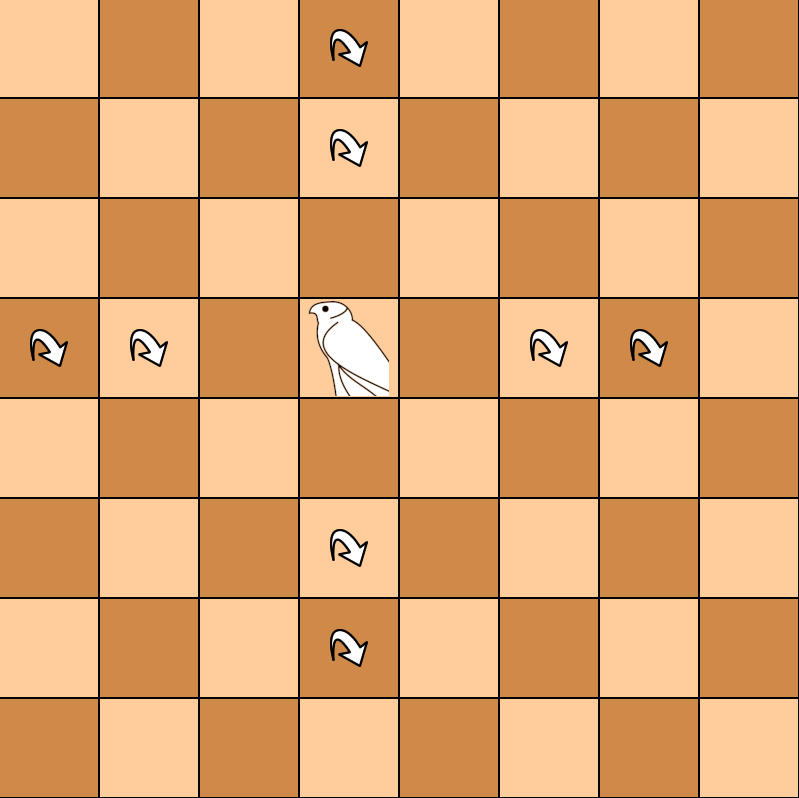
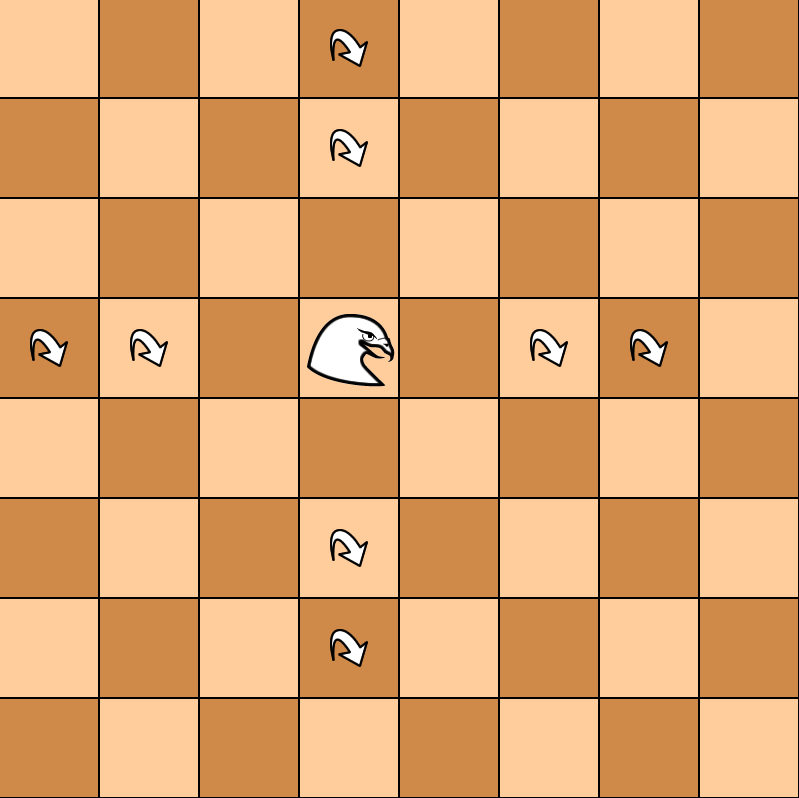
use fr-cobra for snake and aquila 2d for hawk

Changed region(s): [[0.3905, 0.3609, 0.5106, 0.5113]]

diff --git a/src/games/chessbase/res/rules/fantasticXIII/bigorra-rules-fr.html b/src/games/chessbase/res/rules/fantasticXIII/bigorra-rules-fr.html
@@ -42,7 +42,7 @@
 </p>
 <h2>Serpent</h2>
 <p>
-<img class='piece-icon' src='{GAME}/res/fairy/icons/w-dragon.png'>
+<img class='piece-icon' src='{GAME}/res/fairy/icons/w-snake.png'>
 </p>
 <p class='piece-details'>Se déplace d’une case verticalement and peut ensuite glisser diagonalement.</p>
 <div style='clear:both'></div>
@@ -285,4 +285,35 @@
 <p>
 <img class='piece-graph' src='{GAME}/res/rules/graphs/wolf.png'>
 </p>
+<h1>Promotions</h1>
+<div id="promo">
+<table>
+<tr><td><img class='piece-icon-promo' src='{GAME}/res/fairy/icons/w-pawn.png'><img class='piece-icon-promo' src='{GAME}/res/fairy/icons/w-corporal.png'>
+</td><td>promu en
+</td><td><img class='piece-icon-promo' src='{GAME}/res/fairy/icons/w-queen.png'></td></tr>
+<tr><td><img class='piece-icon-promo' src='{GAME}/res/fairy/icons/w-huscarl.png'>
+</td><td>promu en
+</td><td><img class='piece-icon-promo' src='{GAME}/res/fairy/icons/w-wolf.png'></td></tr>
+<tr><td><img class='piece-icon-promo' src='{GAME}/res/fairy/icons/w-prince.png'>
+</td><td>promu en
+</td><td><img class='piece-icon-promo' src='{GAME}/res/fairy/icons/w-amazon.png'></td></tr>
+
+<tr><td><img class='piece-icon-promo' src='{GAME}/res/fairy/icons/w-knight.png'><img class='piece-icon-promo' src='{GAME}/res/fairy/icons/w-camel.png'><img class='piece-icon-promo' src='{GAME}/res/fairy/icons/w-giraffe.png'>
+</td><td>promu en
+</td><td><img class='piece-icon-promo' src='{GAME}/res/fairy/icons/w-buffalo.png'></td></tr>
+
+<tr><td><img class='piece-icon-promo' src='{GAME}/res/fairy/icons/w-crowned-knight.png'><img class='piece-icon-promo' src='{GAME}/res/fairy/icons/w-squirle.png'><img class='piece-icon-promo' src='{GAME}/res/fairy/icons/w-mammoth.png'><img class='piece-icon-promo' src='{GAME}/res/fairy/icons/w-elephant.png'><img class='piece-icon-promo' src='{GAME}/res/fairy/icons/w-machine.png'>
+</td><td>promu en
+</td><td><img class='piece-icon-promo' src='{GAME}/res/fairy/icons/w-lion.png'>
+</td></tr>
+<tr><td><img class='piece-icon-promo' src='{GAME}/res/fairy/icons/w-hawk.png'>
+</td><td>promu en
+</td><td><img class='piece-icon-promo' src='{GAME}/res/fairy/icons/w-duchess.png'></td></tr>
+<tr><td><img class='piece-icon-promo' src='{GAME}/res/fairy/icons/w-ship.png'>
+</td><td>promu en
+</td><td><img class='piece-icon-promo' src='{GAME}/res/fairy/icons/w-griffon.png'></td></tr>
+<tr><td><img class='piece-icon-promo' src='{GAME}/res/fairy/icons/w-snake.png'>
+</td><td>promu en
+</td><td><img class='piece-icon-promo' src='{GAME}/res/fairy/icons/w-rhino.png'></td></tr>
+</table>
 <br clear="all">

diff --git a/src/games/chessbase/res/rules/fantasticXIII/fantasticXIII-rules.html b/src/games/chessbase/res/rules/fantasticXIII/fantasticXIII-rules.html
@@ -45,7 +45,7 @@
 </p>
 <h2>Snake</h2>
 <p>
-<img class='piece-icon' src='{GAME}/res/fairy/icons/w-dragon.png'>
+<img class='piece-icon' src='{GAME}/res/fairy/icons/w-snake.png'>
 </p>
 <p class='piece-details'>Moves one square vertically and then, slides away of an indefinite number of squares diagonally. It can not jump and the unobstructed path must start with the vertical movement.</p>
 <div style='clear:both'></div>
@@ -152,6 +152,19 @@
 <p>
 <img class='piece-graph' src='{GAME}/res/rules/graphs/wolf.png'>
 </p>
+<h1>Promotions table</h1>
+<div id="promo">
+<table>
+<tr><td><img class='piece-icon-promo' src='{GAME}/res/fairy/icons/w-pawn.png'><img class='piece-icon-promo' src='{GAME}/res/fairy/icons/w-huscarl.png'><img class='piece-icon-promo' src='{GAME}/res/fairy/icons/w-prince.png'>
+</td><td>promotes to
+</td><td><img class='piece-icon-promo' src='{GAME}/res/fairy/icons/w-wolf.png'></td></tr>
+<tr><td><img class='piece-icon-promo' src='{GAME}/res/fairy/icons/w-ship.png'>
+</td><td>promotes to
+</td><td><img class='piece-icon-promo' src='{GAME}/res/fairy/icons/w-griffon.png'></td></tr>
+<tr><td><img class='piece-icon-promo' src='{GAME}/res/fairy/icons/w-snake.png'>
+</td><td>promotes to
+</td><td><img class='piece-icon-promo' src='{GAME}/res/fairy/icons/w-rhino.png'></td></tr>
+</table>
 <br clear="all">
 
 

diff --git a/src/games/chessbase/res/rules/fantasticXIII/fantasticXIII-rules-fr.html b/src/games/chessbase/res/rules/fantasticXIII/fantasticXIII-rules-fr.html
@@ -42,7 +42,7 @@
 </p>
 <h2>Serpent</h2>
 <p>
-<img class='piece-icon' src='{GAME}/res/fairy/icons/w-dragon.png'>
+<img class='piece-icon' src='{GAME}/res/fairy/icons/w-snake.png'>
 </p>
 <p class='piece-details'>Se déplace d’une case verticalement and peut ensuite glisser diagonalement.</p>
 <div style='clear:both'></div>
@@ -150,4 +150,17 @@
 <p>
 <img class='piece-graph' src='{GAME}/res/rules/graphs/wolf.png'>
 </p>
+<h1>Promotions</h1>
+<div id="promo">
+<table>
+<tr><td><img class='piece-icon-promo' src='{GAME}/res/fairy/icons/w-pawn.png'><img class='piece-icon-promo' src='{GAME}/res/fairy/icons/w-huscarl.png'><img class='piece-icon-promo' src='{GAME}/res/fairy/icons/w-prince.png'>
+</td><td>promu en
+</td><td><img class='piece-icon-promo' src='{GAME}/res/fairy/icons/w-wolf.png'></td></tr>
+<tr><td><img class='piece-icon-promo' src='{GAME}/res/fairy/icons/w-ship.png'>
+</td><td>promu en
+</td><td><img class='piece-icon-promo' src='{GAME}/res/fairy/icons/w-griffon.png'></td></tr>
+<tr><td><img class='piece-icon-promo' src='{GAME}/res/fairy/icons/w-snake.png'>
+</td><td>promu en
+</td><td><img class='piece-icon-promo' src='{GAME}/res/fairy/icons/w-rhino.png'></td></tr>
+</table>
 <br clear="all">

diff --git a/src/games/chessbase/res/rules/fantasticXIII/bigorra-rules.html b/src/games/chessbase/res/rules/fantasticXIII/bigorra-rules.html
@@ -45,7 +45,7 @@
 </p>
 <h2>Snake</h2>
 <p>
-<img class='piece-icon' src='{GAME}/res/fairy/icons/w-dragon.png'>
+<img class='piece-icon' src='{GAME}/res/fairy/icons/w-snake.png'>
 </p>
 <p class='piece-details'>Moves one square vertically and then, slides away of an indefinite number of squares diagonally. It can not jump and the unobstructed path must start with the vertical movement.</p>
 <div style='clear:both'></div>
@@ -397,7 +397,7 @@
 <tr><td><img class='piece-icon-promo' src='{GAME}/res/fairy/icons/w-ship.png'>
 </td><td>promotes to
 </td><td><img class='piece-icon-promo' src='{GAME}/res/fairy/icons/w-griffon.png'></td></tr>
-<tr><td><img class='piece-icon-promo' src='{GAME}/res/fairy/icons/w-dragon.png'>
+<tr><td><img class='piece-icon-promo' src='{GAME}/res/fairy/icons/w-snake.png'>
 </td><td>promotes to
 </td><td><img class='piece-icon-promo' src='{GAME}/res/fairy/icons/w-rhino.png'></td></tr>
 </table>

diff --git a/src/games/chessbase/cazaux/bigorra-model.js b/src/games/chessbase/cazaux/bigorra-model.js
@@ -12,7 +12,7 @@
         return $this.cbSkiGraph(geometry,[[0,1],[0,-1]],1);
 	}
 
-    /** Move graph for the Snake */
+    /** Move graph for the Ship */
 	Model.Game.cbShipGraph = function(geometry){
 		var $this=this;
 
@@ -171,7 +171,7 @@
 				},
 				7: {
 					name: 'snake',
-					aspect: 'fr-dragon',
+					aspect: 'fr-cobra',
 					graph: this.cbSnakeGraph(geometry),
 					value: 3.7,
 					abbrev: 'N',

diff --git a/src/games/chessbase/res/rules/duodecimal/timurid-description.html b/src/games/chessbase/res/rules/duodecimal/timurid-description.html
@@ -1,3 +1,3 @@
 <p>This game is a variant of <a href="http://history.chess.free.fr/tamerlane2.htm">Tamerlane II.</a></p>
 
-<p><a href="https://www.chessvariants.com/rules/timurid">Chess variant page of Timurid </a> </p>
+<p><a href="http://biscandine.fr/variantes/echecs/timourides.html">Chess variant page of Timurid </a> </p>

diff --git a/src/games/chessbase/duodecimal/wild-mirza-model.js b/src/games/chessbase/duodecimal/wild-mirza-model.js
@@ -222,7 +222,7 @@
       14: {
       name : 'snake',
       abbrev : 'SN',
-      aspect : 'fr-dragon',
+      aspect : 'fr-cobra',
       graph : this.cbSnakeGraph(geometry),
       value : 3.5,
       initial: [{s:1,p:18},{s:-1,p:126}],

diff --git a/src/games/chessbase/cazaux/fantasticXIII-model.js b/src/games/chessbase/cazaux/fantasticXIII-model.js
@@ -171,7 +171,7 @@
 				},
 				7: {
 					name: 'snake',
-					aspect: 'fr-dragon',
+					aspect: 'fr-cobra',
 					graph: this.cbSnakeGraph(geometry),
 					value: 3.5,
 					abbrev: 'N',
